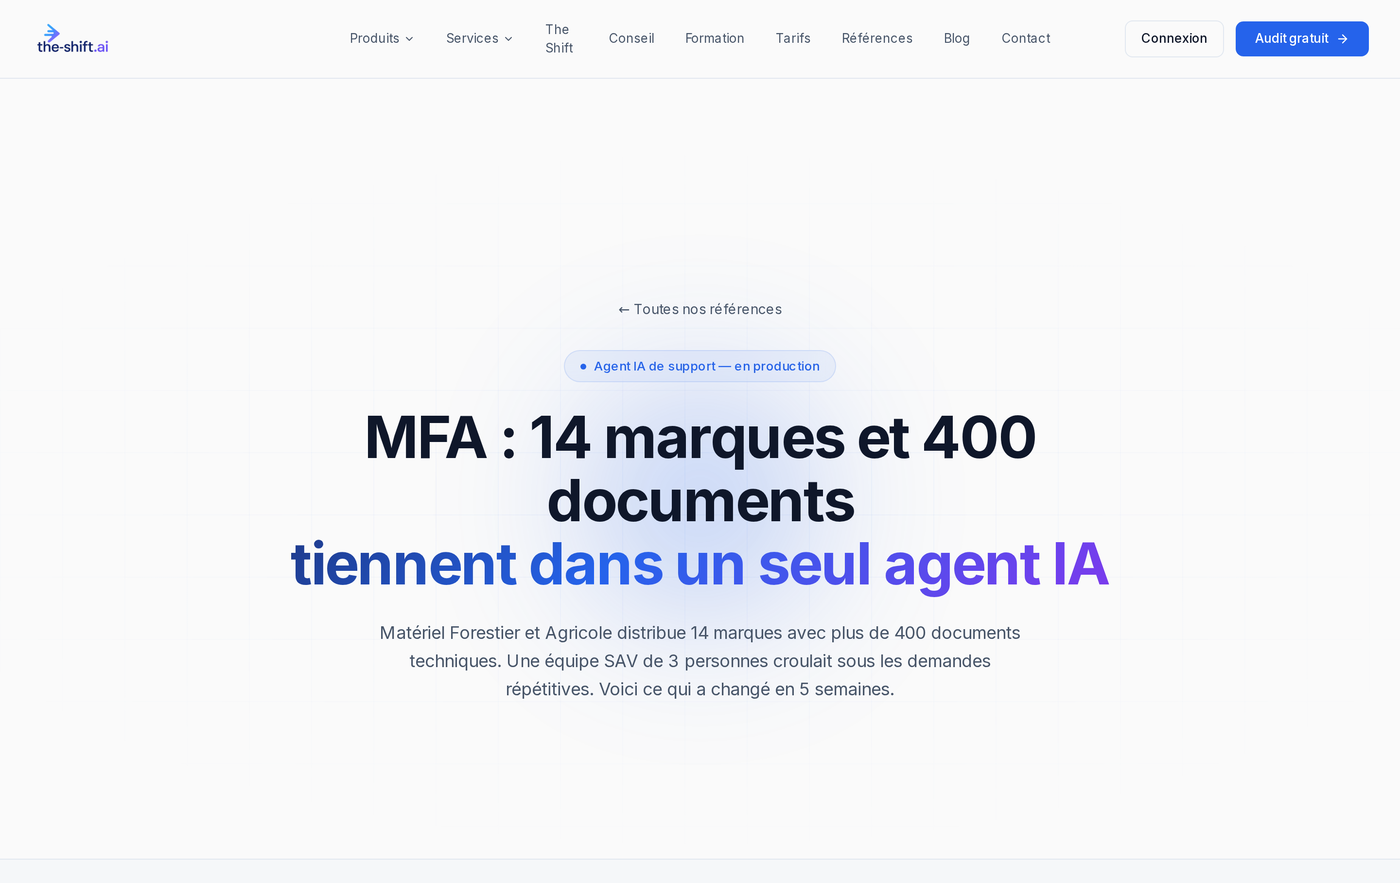
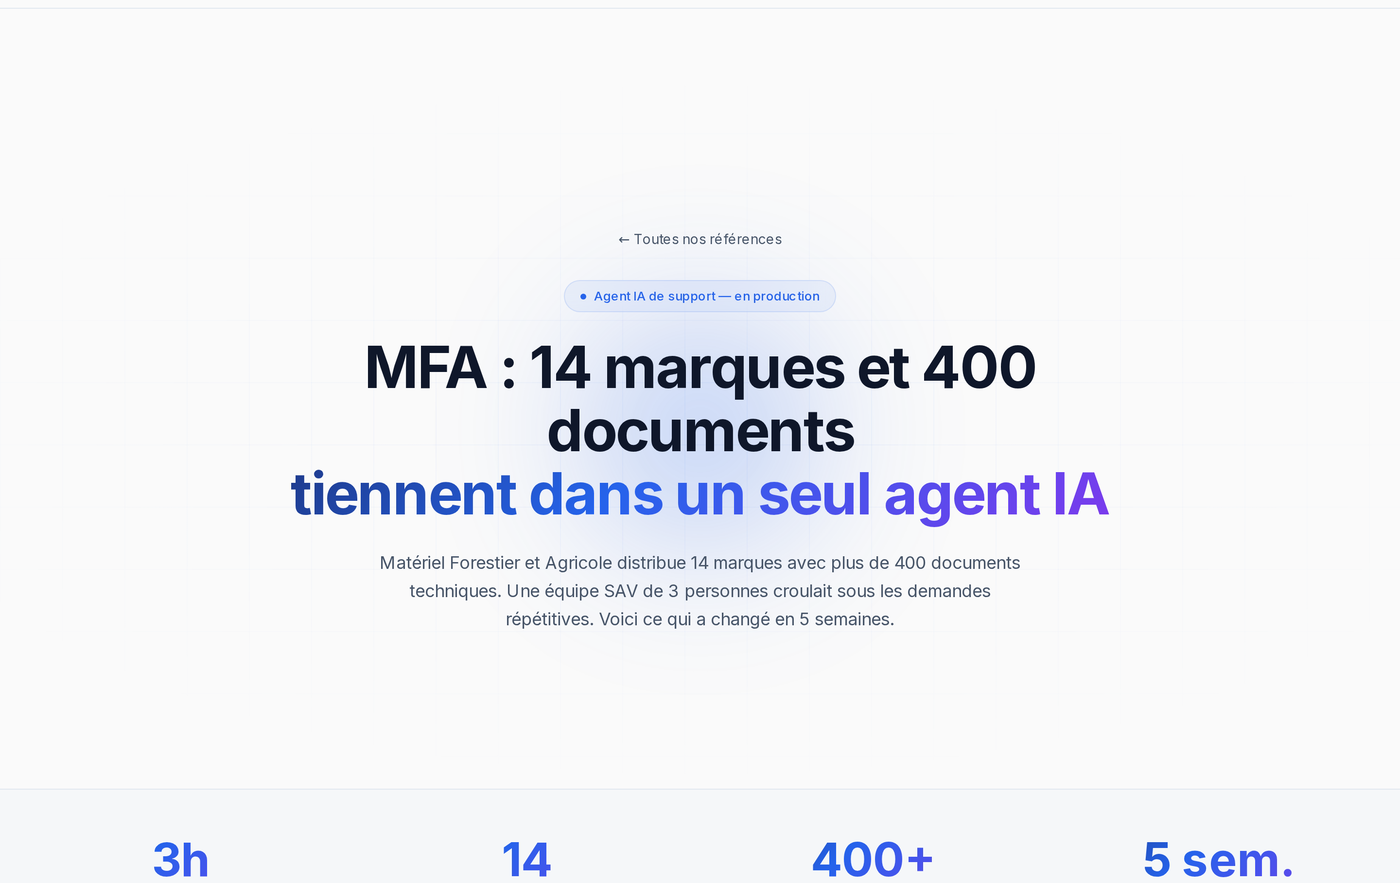
fix(shots): ecart vertical constant dans l exploded, zone de securite sous l encoche
- l explosion se fait en Z et en X : l ecart vertical de 130 px ne depend plus de l avancement,
  deux bandes de 108 px ne peuvent donc se recouvrir a aucun instant du plan
- les etiquettes de couche sortent du clip de leur bande
- 48 px de zone de securite sous l encoche du telephone
- la carte MFA repart sous l en-tete du site : titre et bande de chiffres avec leurs libelles

diff --git a/src/style.css b/src/style.css
@@ -60,14 +60,15 @@ html,body{height:100%;background:#06080f;font-family:'Inter',system-ui,-apple-sy
   box-shadow:0 26px 46px -22px #0f172a80}
 .laptop-notch{position:absolute;left:50%;top:0;width:96px;height:7px;background:#0f172a;border-radius:0 0 7px 7px;transform:translateX(-50%)}
 .phone{border-radius:44px;background:#0f172a;padding:11px;box-shadow:0 2px 4px #0f172a1f,0 26px 60px -18px #0f172a5c}
-.phone-inner{border-radius:34px;overflow:hidden;background:#fff;position:relative;height:100%}
-.phone .notch{position:absolute;left:50%;top:9px;width:108px;height:26px;background:#0f172a;border-radius:15px;transform:translateX(-50%);z-index:3}
+.phone-inner{border-radius:34px;overflow:hidden;background:#fff;position:relative;height:100%;padding-top:48px}
+.phone .notch{position:absolute;left:50%;top:11px;width:108px;height:26px;background:#0f172a;border-radius:15px;transform:translateX(-50%);z-index:3}
 
 /* cards / layers */
 .card3d{border-radius:18px;background:#fff;border:1px solid var(--border);overflow:hidden;
   box-shadow:0 1px 3px #0f172a0f,0 18px 46px -16px #0f172a3d}
-.layer{border-radius:14px;overflow:hidden;background:#fff;border:1px solid #e2e8f0cc;
+.layer{border-radius:14px;background:#fff;border:1px solid #e2e8f0cc;
   box-shadow:0 14px 40px -16px #1e3a8a52}
+.layer > div:first-child{border-radius:13px;overflow:hidden}
 .layer .tag{position:absolute;left:-13px;top:14px;transform:translateX(-100%);
   font-size:15px;font-weight:600;color:var(--primary);letter-spacing:.12em;text-transform:uppercase;white-space:nowrap;
   padding:6px 13px;border-radius:999px;background:#fff;border:1px solid #2563eb33;box-shadow:0 6px 18px -8px #2563eb59}

diff --git a/src/shots.js b/src/shots.js
@@ -249,9 +249,9 @@ function devices(t,g){
   O.win._path.textContent='';
   place(O.win,{x:lerp(48,92,k)+(1-en(0))*54,y:lerp(-90,-108,k)+(1-en(0))*30,z:lerp(-430,-380,k)-(1-en(0))*90,rx:3.4,ry:lerp(15,11,k),o:G,s:1});
   place(O.laptop,{x:lerp(486,502,k)+(1-en(1))*46,y:lerp(96,78,k)+(1-en(1))*34,z:lerp(-160,-120,k)-(1-en(1))*90,rx:lerp(6,4,k),ry:lerp(-19,-14,k),o:G,s:1});
-  const ph=310*ar('home_mobscroll'), pv=310*2.164-22;
+  const ph=310*ar('home_mobscroll'), pv=310*2.164-22-48;
   O.phone._screen.style.height=ph+'px';
-  O.phone._screen.style.transform=`translateY(${(-E.inOutQuint(clamp(inv(.5,3.6,lt)))*(ph-pv)*.53).toFixed(1)}px)`;
+  O.phone._screen.style.transform=`translateY(${(-E.inOutQuint(clamp(inv(.5,3.6,lt)))*(ph-pv)*.46).toFixed(1)}px)`;
   place(O.phone,{x:lerp(-470,-448,k)-(1-en(2))*46,y:lerp(46,28,k)+(1-en(2))*34,z:lerp(20,70,k)-(1-en(2))*90,rx:lerp(4,3,k),ry:lerp(21,15,k),o:G,s:1});
   place(O.deskShadow,{x:496,y:356,z:-210,o:G*.3});
   applyCam({x:lerp(96,20,k),y:lerp(-16,6,k),z:0,ry:lerp(-5.5,3.5,k),rx:lerp(-1,2,k),dof:0});

diff --git a/src/scene.js b/src/scene.js
@@ -35,7 +35,9 @@ export function phone(w,img){
   const h=Math.round(w*2.164);
   const o=el('div','obj phone'); o._w=w; o._h=h; o.style.width=w+'px'; o.style.height=h+'px';
   const inn=el('div','phone-inner',o); el('div','notch',inn);
-  const im=el('div','shot',inn); im.style.backgroundImage=`url(${A}${img})`; o._screen=im;
+  const im=el('div','shot',inn); im.style.backgroundImage=`url(${A}${img})`;
+  im.style.top='48px';                      // zone de securite : le contenu ne passe jamais sous l'encoche
+  o._screen=im; o._safe=48;
   return o;
 }
 export function imgLayer(w,img,tag,cls){
